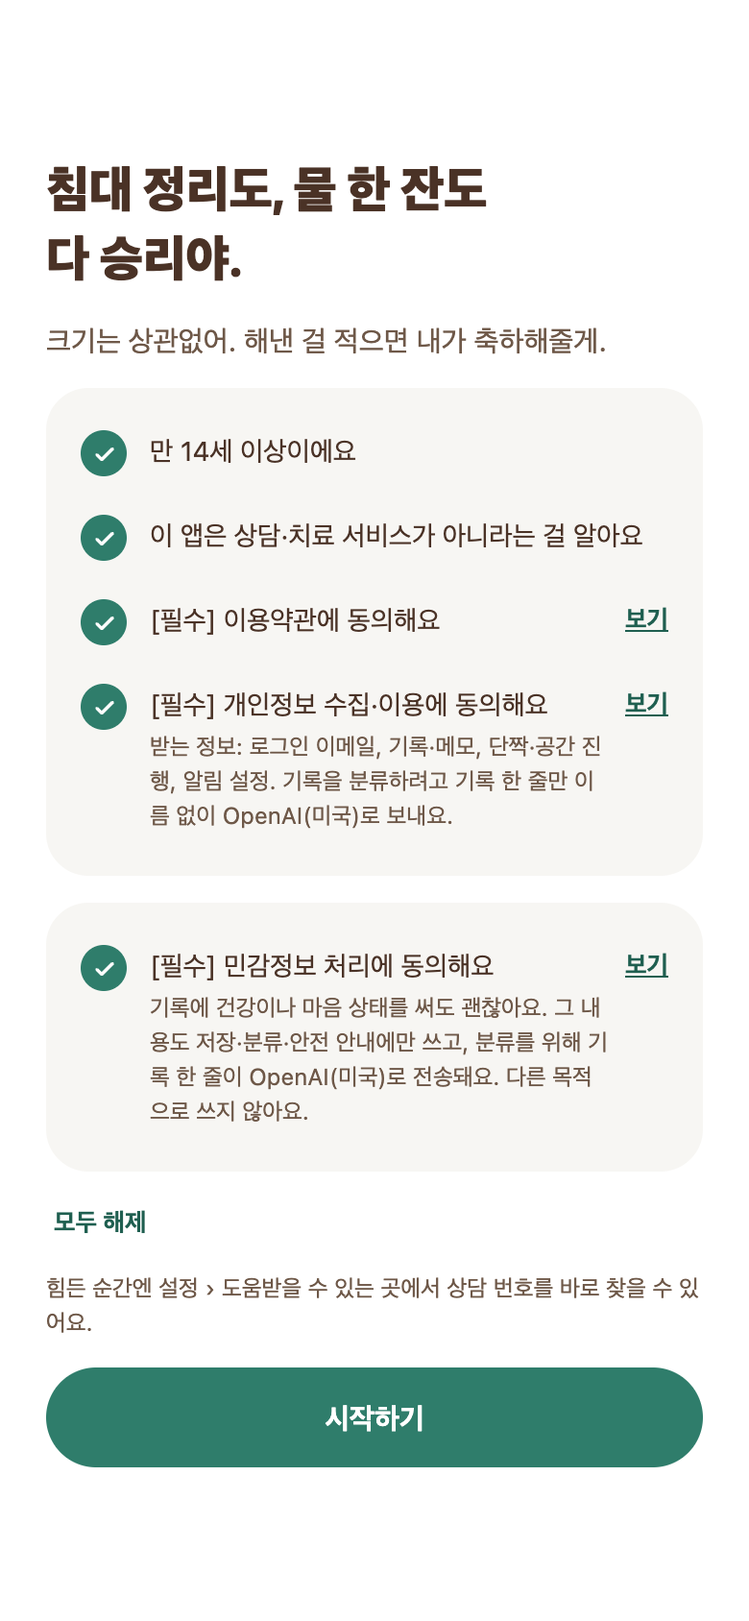
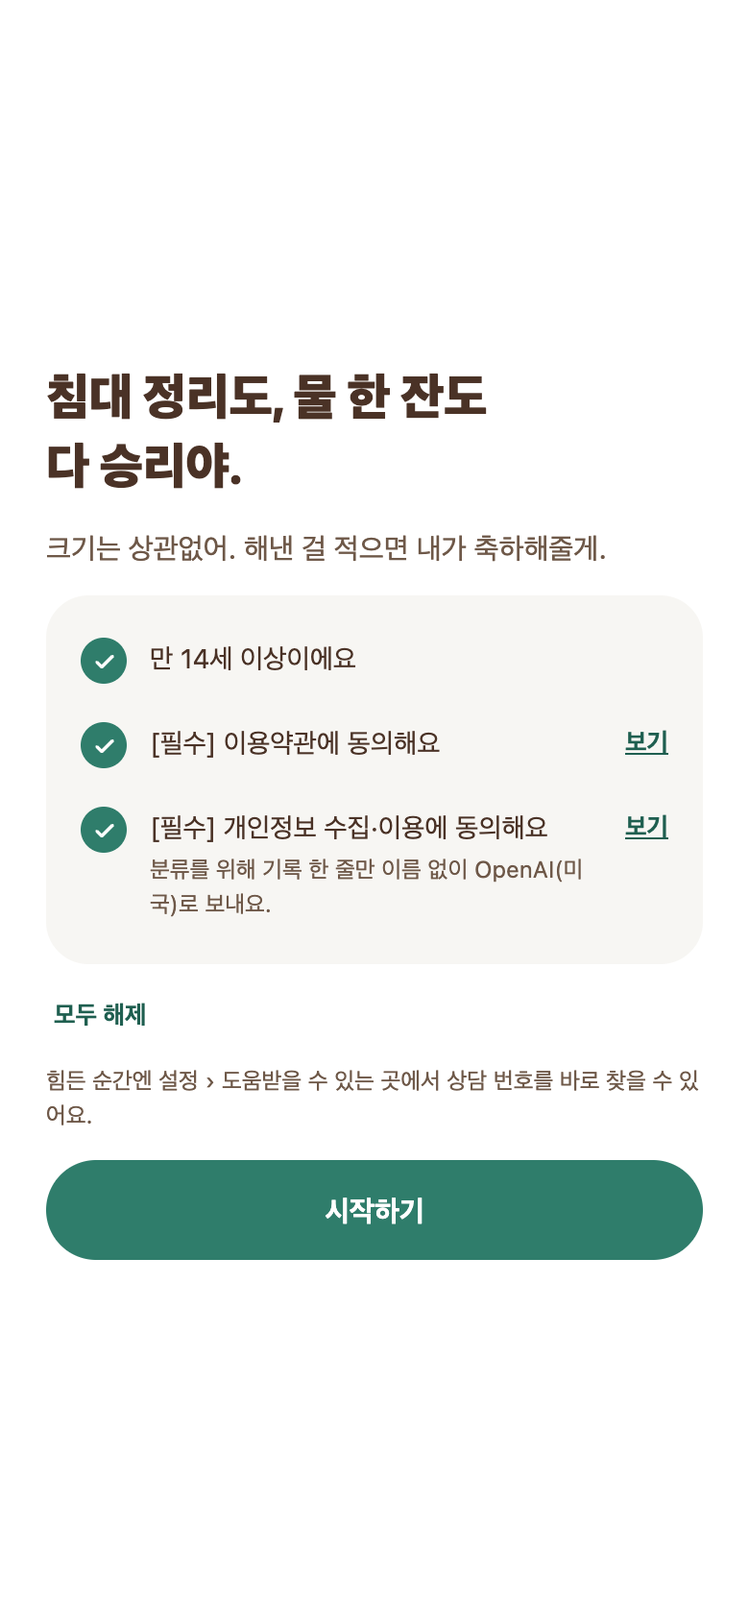
동의 화면: 민감정보 별도 동의(J4)·'상담 앱 아님' 체크 삭제 (대표 결정 2026-11-27) — 서버 동의 확인 일반 동의만, 처리방침 한·일 2/3장, LAUNCH 전문가 질문, 첫 실행 캡처

diff --git a/mobile/src/data/legal.ts b/mobile/src/data/legal.ts
@@ -1,3 +1,3 @@
 // 자동 생성: scripts/gen_legal.py (docs/legal/*.md) — 직접 고치지 말고 문서를 고친 뒤 다시 생성
 export type LegalBlock = ['h1' | 'h2' | 'p' | 'li', string];
-export const LEGAL: Record<'privacy' | 'terms', LegalBlock[]> = {"privacy": [["h1", "개인정보처리방침 (초안)"], ["p", "【앱 이름】(이하 \"앱\")을 운영하는 Irum(이하 \"운영자\")은 개인정보 보호법에 따라 이용자의 개인정보를 보호하고, 관련 문의를 빠르게 처리하기 위해 다음과 같이 개인정보처리방침을 둡니다."], ["p", "이 방침은 한국 App Store 또는 한국 Google Play에서 앱을 받은 이용자에게 적용됩니다."], ["p", "이 앱의 기록은 일기에 가깝습니다. 그래서 꼭 필요한 정보만 받고, 기록은 본인만 볼 수 있게 하며, 운영자는 원칙적으로 기록 내용을 열람하지 않습니다(예외는 8장)."], ["h2", "1. 처리하는 개인정보 항목, 목적, 근거"], ["li", "구분: 가입·로그인 / 항목: 이메일 주소, 로그인 방식(카카오·Google·Apple·이메일)과 해당 서비스의 계정 식별값, 이름 또는 닉네임(카카오·Google이 넘겨주는 경우), 만 14세 이상 확인 / 목적: 본인 확인, 계정 유지, 로그인 코드 발송 / 처리 근거: 계약 이행 (법 제15조 제1항 제4호)"], ["li", "구분: 서비스 이용 / 항목: 기록 내용(한 줄, 최대 100자), 기록에 덧붙인 메모(최대 200자), 기록 날짜·분류, ☆ 표시, 단짝 이름, 알림 설정(켜짐 여부·시간), 씨앗을 받고 쓴 내역, 소품·텃밭·마당 진행 상태, 동의한 시각과 동의한 약관 판, 마지막 접속 시각, 단짝에게 바라는 동작으로 직접 적어 보낸 짧은 낱말(최대 20자, 기록 문장은 보내지 않음) / 목적: 기록 저장·보기, 단짝·공간 기능 제공, 새 동작 고르기 / 처리 근거: 계약 이행 (법 제15조 제1항 제4호)"], ["li", "구분: 민감정보 / 항목: 이용자가 기록·메모에 직접 쓴 건강·마음 상태에 관한 내용, '버틴 하루' 분류 / 목적: 기록 저장·보기, 분류(기록 한 줄은 OpenAI(미국)로 전송, 3장), 힘든 마음에 맞춘 반응 / 처리 근거: 별도 동의 (법 제23조 제1항 제1호, 2장)"], ["li", "구분: 이용 통계 / 항목: 이용 이벤트 이름과 작은 부가 정보(예: 분류 종류, 개수). 계정과 연결해 저장하며, 기록·메모 내용은 포함하지 않음. 가입하지 않은 임시 계정을 삭제할 때는 계정과의 연결을 끊고(누구 것인지 알 수 없는 무작위 값으로 바꿈) 통계로만 남김 / 목적: 기능 개선, 이용 현황 파악 / 처리 근거: 운영자의 정당한 이익 (법 제15조 제1항 제6호)"], ["li", "구분: 남용 방지 / 항목: 하루 AI 분류 호출 횟수(7일 뒤 삭제). 가입 전 임시 계정은 IP 주소를 해시로 바꾼 값과 그 값의 하루 분류 호출 횟수(3일 안에 삭제, IP 주소 자체는 저장하지 않음) / 목적: AI 비용 악용 방지(임시 계정을 계속 새로 만들어 분류 한도를 피하는 일 막기) / 처리 근거: 운영자의 정당한 이익 (법 제15조 제1항 제6호)"], ["li", "구분: 자동 생성 / 항목: 접속 일시, IP 주소, 기기·앱 정보(서버 접속 기록) / 목적: 보안, 오류 확인 / 처리 근거: 운영자의 정당한 이익 (법 제15조 제1항 제6호)"], ["li", "구분: 결제·무료 이용 / 항목: 가입 시각, 무료 이용이 끝나는 날(가입 시각으로 계산), 구독 상품·기간·상태, 거래 식별값 / 목적: 구독 제공·확인. 카드 번호 등 결제 수단 정보는 Apple 또는 Google이 처리하며 운영자는 받지 않습니다 / 처리 근거: 계약 이행 (법 제15조 제1항 제4호)"], ["li", "가입 전 임시 계정: [시작하기]를 누르면 이메일 등 아무 정보 없이 임시 계정이 만들어지고, 이름 짓기·동의·첫 기록은 이 계정에 저장됩니다(위 '서비스 이용'·'민감정보'·'이용 통계' 항목과 같음). 가입하면 같은 계정이 정식 계정이 되고, 이미 가입한 계정으로 로그인하면 임시 계정의 기록을 그 계정으로 옮긴 뒤 임시 계정을 삭제합니다. 가입하지 않은 임시 계정은 만든 지 7일이 지나면 자동으로 삭제합니다(4장)."], ["li", "서비스를 종료하면서 남은 구독 기간을 스토어로 환급할 수 없을 때(약관 제10조)에만 환급 받을 계좌 정보(은행, 계좌번호, 예금주)를 받으며, 환급을 마치면 지체 없이 파기합니다(대금 지급 기록은 4장의 법정 보관 대상)."], ["li", "카카오·Google이 넘겨주는 프로필 사진 주소는 받는 즉시 버리며 저장하지 않습니다."], ["li", "만 14세 미만의 개인정보는 수집하지 않습니다. 만 14세 미만은 이용(가입 전 임시 이용 포함)할 수 없습니다."], ["li", "알림은 휴대폰 안에서만 예약되며, 알림을 위해 서버로 보내는 정보는 없습니다."], ["h2", "2. 민감정보"], ["li", "앱은 건강이나 마음 상태를 묻지 않습니다. 다만 기록은 자유롭게 쓰는 글이라 그런 내용이 들어갈 수 있고, 앱은 그런 기록을 '버틴 하루'로 분류하고, 힘든 마음이 보이면 단짝이 축하 대신 조용히 곁에 있습니다."], ["li", "그래서 앱을 시작할 때(가입 전, 첫 기록을 쓰기 전) 동의 화면에서 다른 동의와 나누어 \"기록에 건강·마음 상태 같은 내용을 쓰면, 그 내용도 저장·분류·힘든 마음에 맞춘 반응에 쓰이고, 분류를 위해 기록 한 줄이 AI 서비스(OpenAI, 미국)로 전송되는 것\"에 따로 동의를 받습니다."], ["li", "이 동의는 기록 기능을 제공하는 데 꼭 필요해서, 동의하지 않으면 앱을 쓸 수 없습니다. 동의를 철회하려면 계정을 삭제하면 되고, 그때 관련 정보도 함께 삭제됩니다."], ["li", "민감정보는 다른 기록과 같은 방법(8장)으로 보호하며, 다른 목적으로 쓰지 않습니다."], ["h2", "3. 기록 분류와 힘든 마음에 맞춘 반응"], ["li", "기록을 저장할 때 기록 내용(한 줄)만 AI 서비스(OpenAI, 미국)로 보내 분류(정리·운동·공부 등), 자해·자살과 관련된 표현인지, 남을 해치는 표현인지를 판단합니다. 이름·이메일·계정 식별값은 함께 보내지 않습니다. 메모는 AI로 보내지 않습니다."], ["li", "보낸 내용은 AI 학습에 쓰이지 않으며, OpenAI는 악용 감시 목적으로 최대 30일 보관할 수 있습니다."], ["li", "자해·자살과 관련된 표현이 감지되면 단짝이 축하하지 않고 조용히 곁에 있습니다. 감지 여부를 따로 표시해 남기지 않고 날짜별 횟수만 익명으로 집계합니다. 다만 그 기록은 '버틴 하루'로 분류되어 다른 기록처럼 저장됩니다."], ["li", "남을 해치는 표현으로 판단되면 단짝이 축하하지 않고 조용히 곁에 있습니다. 이 판단 결과는 기록의 분류나 이용 통계 어디에도 남기지 않으며, 씨앗 등 이용에 불이익을 주지 않습니다."], ["li", "AI 분류는 서비스 제공에 필요한 처리라서 끌 수 없습니다. AI 서버에 연결되지 않을 때는 휴대폰 안의 단어 목록으로만 판단합니다."], ["li", "분류 결과는 단짝의 동작과 구슬 색을 고르는 데만 쓰이며, 이용자의 권리·의무에 영향을 주는 자동화된 결정(법 제37조의2)에 해당하지 않습니다. 분류는 이용자가 직접 바꿀 수 있습니다."], ["li", "운영자는 기록 내용을 보고 이용자에게 따로 연락하지 않습니다. 이 앱은 상담·치료 서비스가 아닙니다."], ["h2", "4. 보유 기간과 파기"], ["li", "개인정보는 계정을 삭제할 때까지 보유합니다."], ["li", "가입하지 않은 임시 계정은 만든 지 7일이 지나면 그 계정의 정보(이름, 동의 시각, 기록, 씨앗 내역)를 모두 자동으로 삭제합니다. 이용 통계는 계정과의 연결을 끊어 누구 것인지 알 수 없게 바꾼 뒤 통계로만 남깁니다."], ["li", "마지막 접속 후 【3년】 동안 접속하지 않으면, 30일 전에 이메일로 알린 뒤 계정과 정보를 삭제합니다. 그 전에 한 번이라도 접속하면 계속 보관합니다. 구독이 유지되고 있는 계정은 삭제하지 않습니다."], ["li", "계정 삭제, 기록 1개 삭제, 모든 기록 지우기를 하면 서비스 데이터베이스에서 지체 없이(늦어도 5일 안에) 삭제합니다. 다만 아래는 각 기간이 지나야 사라집니다."], ["li", "OpenAI에 보낸 기록 내용: 최대 30일 (OpenAI의 악용 감시 보관)"], ["li", "RevenueCat에 있는 구독·구매 정보(앱 회원 번호, 구매 내역, 영수증·구매 토큰 등): 계정을 삭제해도 지워지지 않고, RevenueCat과의 위탁 계약이 끝날 때 함께 삭제됩니다 (5장 표)"], ["li", "서버 접속 기록: 【1일 (현재) / Pro 전환 후 7일】"], ["li", "백업 사본: 【현재 자동 백업 없음 / Pro 전환 후 7일】"], ["li", "법령이 보관을 요구하는 정보는 다른 정보와 분리해 그 기간만 보관하고, 그 목적으로만 씁니다(법 제21조 제3항)."], ["li", "계약·청약철회, 대금 결제에 관한 기록: 5년 (전자상거래법). 계정을 삭제하면 구독 기록(상품, 기간, 상태, 거래 식별값)은 계정과의 연결을 끊어 분리 보관하고, 5년이 지나면 자동으로 파기합니다."], ["li", "소비자 불만·분쟁 처리 기록: 3년 (전자상거래법)"], ["li", "파기 절차: 보유 기간이 끝나거나 목적을 이룬 정보는 지체 없이(5일 안에) 파기합니다. 분리 보관하는 정보는 위 기간이 지나면 파기합니다."], ["li", "파기 방법: 전자 파일은 복구할 수 없는 방법으로 삭제합니다. 종이 문서로는 개인정보를 보관하지 않습니다."], ["h2", "5. 제3자 제공"], ["p", "운영자는 이용자의 개인정보를 제3자에게 제공하지 않습니다. 다만 법령에 따라 수사기관 등이 적법한 절차로 요구하는 경우는 예외이며, 이때도 요구된 최소 범위만 제공합니다."], ["h2", "6. 처리 위탁과 국외 이전"], ["p", "서비스 운영을 위해 아래 업체에 개인정보 처리를 맡기며, 이 과정에서 개인정보가 국외로 이전됩니다."], ["li", "이전받는 자 (연락처): Supabase, Inc. (privacy@supabase.com) / 이전 국가: 일본(도쿄 데이터센터: 데이터베이스·로그인·백업), 미국 등 지원팀 소재국(지원 요청·보안 사고 대응 때 필요한 범위만 접근), EU(서비스 운영 로그) / 이전 항목: 1번 표의 모든 항목 (운영 로그는 접속 기록) / 목적: 데이터베이스·로그인 시스템 운영 / 이전 시기·방법: 이용할 때마다 암호화 통신으로 전송 / 보유 기간: 계정 삭제 시까지 (로그·백업은 4장 기간)"], ["li", "이전받는 자 (연락처): OpenAI OpCo, LLC (privacy@openai.com) / 이전 국가: 미국 / 이전 항목: 기록 내용 한 줄 (계정 식별값 없음) / 목적: 기록 분류, 자해·자살 관련 표현·남을 해치는 표현 판단 / 이전 시기·방법: 기록 저장 시 암호화 통신으로 전송 / 보유 기간: 최대 30일"], ["li", "이전받는 자 (연락처): RevenueCat, Inc. (compliance@revenuecat.com) / 이전 국가: 미국 / 이전 항목: 계정 식별값(앱 회원 번호), 구독 상품·구매 내역·상태, 거래 식별값(Apple 영수증·Google 구매 토큰), 기기 종류·운영체제, 지역·통화 설정, 마지막 접속 시각 / 목적: 구독 결제 확인·구매 복원, 구독 상태 관리 / 이전 시기·방법: 구매·갱신·복원·앱 실행 시 암호화 통신으로 전송 / 보유 기간: 위탁 계약이 끝날 때까지 (계정을 삭제해도 남으며, 계약이 끝나면 운영자 요청으로 삭제. 업체 백업본은 업체 보관 관행에 따라 그 뒤 삭제)"], ["li", "이전받는 자 (연락처): 【Resend 등 메일 발송 업체 — 연동 후 기재】 / 이전 국가: 미국 / 이전 항목: 이메일 주소 / 목적: 로그인 코드 메일 발송 / 이전 시기·방법: 코드 요청 시 암호화 통신으로 전송 / 보유 기간: 【업체 보관 기간 확인】"], ["li", "재위탁: Supabase는 Amazon Web Services, Inc.(일본 도쿄 리전)의 서버를 씁니다. 그 밖의 재수탁자는 각 업체가 공개한 목록을 따릅니다."], ["li", "위 국외 이전은 이용자와의 계약(서비스 제공)을 이행하는 데 필요한 처리위탁·보관으로, 법 제28조의8 제1항 제3호에 따라 이 방침에 공개하는 방법으로 알립니다."], ["li", "국외 이전을 원하지 않으면 계정을 삭제하는 방법으로 거부할 수 있습니다. 다만 국외 이전 없이는 서비스를 제공할 수 없어, 거부하면 앱을 쓸 수 없습니다."], ["li", "카카오·Google·Apple 로그인은 이용자가 선택한 경우에만 해당 회사를 통해 본인 확인이 이루어집니다."], ["li", "구독 결제는 Apple 또는 Google이 자체 방침에 따라 처리하며, 운영자는 구독 상태와 거래 식별값만 받습니다."], ["h2", "7. 이용자의 권리와 행사 방법"], ["li", "열람: 앱에서 모든 기록과 메모를 볼 수 있고, 설정 › 텍스트로 내보내기로 받을 수 있습니다."], ["li", "정정: 앱에서 기록·메모·분류와 단짝 이름을 고칠 수 있습니다."], ["li", "삭제·동의 철회: 설정에서 기록 삭제, 모든 기록 지우기, 계정 삭제를 할 수 있습니다."], ["li", "그 밖의 열람·정정·삭제·처리정지 요구는 아래 문의처로 보내 주시면, 가입한 계정의 이메일로 본인임을 확인한 뒤 10일 안에 답합니다."], ["li", "대리인을 통해 권리를 행사할 수 있으며, 이 경우 위임장을 확인합니다."], ["h2", "8. 안전성 확보 조치"], ["li", "접근 통제: 모든 데이터는 본인 계정으로만 읽을 수 있도록 데이터베이스 단계에서 제한합니다."], ["li", "암호화: 통신 구간(HTTPS)과 저장 데이터(디스크)를 암호화하고, 휴대폰 안의 로그인 정보도 암호화해 보관합니다."], ["li", "비밀번호 미보관: 로그인에 비밀번호를 쓰지 않습니다."], ["li", "최소 권한과 열람 제한: 운영에 필요한 관리 열쇠는 운영자만 보관합니다. 운영자는 원칙적으로 기록 내용을 열람하지 않으며, 이용자 본인이 요청한 경우, 법령상 의무가 있는 경우, 장애·보안 사고 대응에 꼭 필요한 경우에만 최소 범위로 열람하고 그 사실을 기록합니다. Supabase 지원팀은 운영자의 지원 요청, 문제 신고, 보안 사고 대응 때 필요한 범위에서만 접근합니다【Supabase DPA 확인: 접근 기록 보관 여부】."], ["li", "유출 대응: 개인정보가 유출되었거나 유출 가능성이 확인되면 72시간 안에 이용자에게 알리고, 법령이 정한 경우 개인정보보호위원회 또는 한국인터넷진흥원에 신고합니다."], ["h2", "9. 자동 수집 장치(쿠키 등)"], ["p", "앱은 쿠키를 쓰지 않으며, 광고 식별자를 수집하지 않고 광고·추적 도구를 넣지 않았습니다."], ["h2", "10. 개인정보 보호책임자와 문의처"], ["li", "개인정보 보호책임자: 【이름·직책】"], ["li", "문의: contact@irumhq.com"], ["h2", "11. 권익 침해 구제 방법"], ["li", "개인정보침해신고센터: privacy.kisa.or.kr, 국번 없이 118"], ["li", "개인정보분쟁조정위원회: www.kopico.go.kr, 1833-6972"], ["li", "대검찰청 사이버수사과: 국번 없이 1301"], ["li", "경찰청 사이버수사국: ecrm.police.go.kr, 국번 없이 182"], ["h2", "12. 방침의 변경"], ["p", "이 방침을 바꿀 때는 시행 7일 전(이용자에게 불리한 변경은 30일 전)에 앱 또는 이 페이지에 알립니다. 불리한 변경은 이메일로도 따로 알립니다."], ["li", "시행일: 【출시일】"]], "terms": [["h1", "이용약관 (초안)"], ["h2", "제1조 (목적)"], ["p", "이 약관은 Irum(이하 \"운영자\")이 제공하는 【앱 이름】(이하 \"서비스\")의 이용 조건과 운영자·이용자의 권리와 의무를 정합니다. 이 약관은 한국 App Store 또는 한국 Google Play에서 앱을 받은 이용자에게 적용됩니다."], ["h2", "제2조 (서비스의 내용)"], ["p", "1. 서비스는 이용자가 오늘 해낸 작은 일을 한 줄로 기록하고, 단짝 캐릭터와 방·텃밭·마당을 가꾸는 기록 앱입니다."], ["p", "2. 서비스는 상담·진단·치료를 제공하는 의료 또는 심리 상담 서비스가 아닙니다. 마음이 많이 힘들 때는 앱 안의 \"도움받을 수 있는 곳\"에 있는 전문 기관에 연락해 주세요."], ["p", "3. 운영자는 기록 내용을 보고 이용자에게 따로 연락하지 않습니다."], ["h2", "제3조 (약관의 효력과 변경)"], ["p", "1. 이 약관은 앱을 시작할 때(가입 전) 동의 화면에서 확인하고 동의한 때부터 효력이 있으며, 앱 안 설정 화면과 【약관 페이지 주소】에 게시합니다."], ["p", "2. 운영자는 법령을 어기지 않는 범위에서 약관을 바꿀 수 있고, 바꿀 때는 바뀌는 내용과 시행일을 시행 7일 전(이용자에게 불리한 변경은 30일 전)에 앱에 알립니다. 불리한 변경은 이메일로도 따로 알립니다."], ["p", "3. 알릴 때 \"시행일까지 거부 의사를 밝히지 않으면 동의한 것으로 본다\"는 점을 함께 알립니다. 그런데도 시행일까지 거부 의사를 밝히지 않고 계속 이용하면 바뀐 약관에 동의한 것으로 봅니다."], ["p", "4. 이용자는 바뀐 약관에 동의하지 않으면 계정을 삭제하고 이용을 그만둘 수 있습니다."], ["h2", "제4조 (가입과 계정)"], ["p", "1. 만 14세 이상만 가입할 수 있습니다."], ["p", "2. 만 19세 미만인 이용자가 법정대리인(부모 등)의 동의 없이 유료 구독을 결제하면, 본인 또는 법정대리인이 그 결제를 취소할 수 있습니다. 다만 나이를 속이거나 법정대리인의 동의가 있는 것처럼 속인 경우에는 취소할 수 없습니다."], ["p", "3. 가입은 카카오, Google, Apple 계정 또는 이메일 코드로 합니다."], ["p", "4. 계정은 본인만 써야 하며, 다른 사람에게 넘기거나 빌려줄 수 없습니다."], ["p", "5. 이용자는 설정에서 언제든 계정을 삭제할 수 있습니다. 삭제하면 기록·단짝·공간·씨앗이 모두 삭제되며 되돌릴 수 없습니다. 계정을 삭제해도 App Store·Google Play 구독은 해지되지 않으므로, 결제를 멈추려면 제7조 4항의 방법으로 따로 해지해야 합니다."], ["p", "6. 가입 전에도 이름 짓기와 첫 기록을 할 수 있으며, 이때는 임시 계정이 쓰입니다. 첫 기록 뒤에는 가입해야 계속 이용할 수 있고, 가입하지 않은 임시 계정은 만든 지 7일이 지나면 그 기록과 함께 삭제됩니다."], ["h2", "제5조 (이용자가 쓴 기록)"], ["p", "1. 기록과 메모의 권리는 쓴 이용자에게 있습니다."], ["p", "2. 운영자는 서비스 제공(저장, 보여주기, 분류, 힘든 마음·남을 해치는 표현에 대한 반응 조절, 내보내기)에 필요한 범위에서만 기록을 처리하며, 기록을 공개하거나 광고·AI 학습에 쓰지 않습니다."], ["p", "3. 이용자는 설정에서 기록을 텍스트로 내보낼 수 있습니다. 계정을 삭제하기 전에 필요한 기록은 미리 내보내 주세요."], ["h2", "제6조 (이용자가 하면 안 되는 일)"], ["p", "1. 다른 사람의 계정이나 개인정보를 쓰는 일"], ["p", "2. 서비스를 비정상적인 방법으로 이용하는 일(자동화 도구로 대량 요청, 보안 장치 우회, 씨앗·소품을 부정하게 얻는 일 등)"], ["p", "3. 서비스를 복제·분해하거나 운영을 방해하는 일"], ["p", "4. 법령을 어기는 일"], ["p", "위 행위가 확인되면 운영자는 사유를 알린 뒤 이용을 제한하거나 계정을 정지할 수 있습니다. 급한 경우에는 먼저 조치하고 나중에 사유를 알릴 수 있습니다. 이용자는 contact@irumhq.com로 이의를 낼 수 있고, 운영자는 이의를 받은 날부터 【7일】 안에 검토 결과를 알립니다."], ["h2", "제7조 (유료 구독)"], ["p", "1. 서비스는 가입한 날부터 14일 동안 무료로 이용할 수 있고, 그 뒤에는 월 3,000원 또는 연 24,000원(모두 부가세 포함)의 구독으로 이용할 수 있습니다. 구독하지 않으면 새 기록을 남기는 기능을 쓸 수 없으며, 6항의 기능은 계속 무료입니다."], ["p", "2. 구독은 Apple App Store 또는 Google Play의 인앱 결제로 이루어지며, 결제·갱신·해지는 해당 스토어의 정책을 따릅니다."], ["p", "3. 무료 이용 기간은 결제 수단을 등록하지 않고 제공되며, 끝나도 자동으로 결제되지 않습니다. 운영자는 가입 화면에서 무료 이용이 끝나는 날을 알리며, 이용자는 설정 화면에서 언제든 그 날을 확인할 수 있습니다. 무료 이용은 그날 자정(한국 시간)까지입니다. 구독은 이용자가 직접 결제해야 시작됩니다."], ["p", "4. 구독은 현재 기간이 끝나기 24시간 전까지 해지하지 않으면 같은 조건으로 자동 갱신됩니다. 해지는 iPhone의 설정 › Apple 계정 › 구독, 또는 Google Play 앱의 프로필 › 결제 및 정기 결제 › 정기 결제에서 할 수 있고, 해지하면 다음 결제부터 청구되지 않습니다."], ["p", "5. 가격을 올릴 때는 인상일 전 30일 이내에 바뀌는 금액과 해지 방법을 알리고 동의를 받습니다. 동의하지 않으면 구독은 갱신되지 않습니다."], ["p", "6. 구독이 끝나거나 구독하지 않아도 지난 기록 보기·고치기(메모·분류·☆ 포함)·내보내기·삭제, 단짝과 방·텃밭·마당, 이미 가진 씨앗과 소품, 도움받을 수 있는 곳(상담 기관 안내)은 무료로 계속 쓸 수 있습니다."], ["p", "7. 무료 이용 기간 중에도 구독할 수 있습니다. 이때 구독 기간과 결제는 구독한 날부터 시작되며, 남은 무료 이용 기간은 구독 기간에 더해지지 않습니다. 운영자는 결제 전에 구독 화면에서 이 점을 알립니다."], ["h2", "제8조 (청약철회와 환불)"], ["p", "1. 서비스는 결제 전에 가입 후 14일 무료 이용으로 구독 기능을 미리 써 볼 수 있게 합니다. 결제한 금액과 남은 구독 기간은 원칙적으로 환불되지 않으며, 해지하면 이미 결제한 기간이 끝날 때까지 구독 기능을 쓸 수 있습니다. 다만 전자상거래법 등 관련 법령에 따라 청약철회를 할 수 있는 경우에는 그에 따릅니다."], ["p", "2. 해지하면 다음 결제부터 청구되지 않습니다."], ["p", "3. App Store에서 결제한 구독의 환불은 Apple이 결정하고 처리합니다. 환불은 Apple의 환불 요청 페이지(reportaproblem.apple.com)에서 신청할 수 있습니다."], ["p", "4. Google Play에서 결제한 구독은 결제 후 48시간 안에는 Google Play에 환불을 신청할 수 있습니다. 그 뒤에는 운영자에게 문의하시면, 1항 단서의 청약철회와 6항의 경우에 운영자가 Google Play를 통해 환불합니다."], ["p", "5. 환불·해지 문의는 운영자(contact@irumhq.com)에게도 할 수 있습니다. App Store 결제의 경우 운영자는 Apple 환불 신청 방법을 안내하고, 신청에 필요한 이용 정보를 제공하는 등 지원합니다."], ["p", "6. 운영자의 잘못으로 서비스를 이용하지 못한 경우, 운영자는 이용하지 못한 기간만큼 다음 갱신일을 늦추어 보상합니다. 이용자가 원하면 App Store 결제는 Apple 환불 신청을 지원하고, Google Play 결제는 이용하지 못한 기간만큼 환불합니다."], ["h2", "제9조 (씨앗과 소품)"], ["p", "1. 씨앗은 기록하면 받는 앱 안의 포인트이며, 소품·작물·구역으로 바꾸는 데만 쓸 수 있습니다."], ["p", "2. 씨앗·소품은 현금으로 바꾸거나 다른 사람에게 넘길 수 없고, 돈으로 따로 살 수 없습니다. 【아이템 판매를 도입하면 수정】"], ["p", "3. 계정을 삭제하면 씨앗·소품도 함께 사라집니다."], ["h2", "제10조 (서비스의 변경과 중단)"], ["p", "1. 운영자는 서비스의 내용을 개선하기 위해 바꿀 수 있고, 이용자에게 큰 영향을 주는 변경은 미리 알립니다."], ["p", "2. 점검, 장애, 천재지변 등으로 서비스가 잠시 멈출 수 있습니다."], ["p", "3. 서비스를 끝낼 때는 적어도 30일 전에 알리고, 그 기간 동안 기록을 내보낼 수 있게 합니다. 알린 날부터 새 구독과 자동 갱신을 멈춥니다. 운영자는 이미 결제된 구독 기간이 모두 끝날 때까지 서비스를 운영하거나, 종료일 뒤에 남은 구독 기간만큼 요금을 환급하고 종료합니다. 환급은 App Store·Google Play를 통해 하고, 스토어에서 환급되지 않으면 운영자가 직접 환급합니다."], ["h2", "제11조 (책임)"], ["p", "1. 운영자는 서비스를 안정적으로 제공하기 위해 노력하며, 운영자의 고의 또는 과실로 이용자에게 생긴 손해는 법령에 따라 책임집니다."], ["p", "2. 운영자는 천재지변, 이용자의 기기·통신 문제 등 운영자가 책임질 수 없는 사유로 생긴 손해는 책임지지 않습니다."], ["p", "3. 서비스는 의료·상담 서비스가 아니므로, 서비스의 내용을 전문가의 진단이나 치료 대신으로 삼아서는 안 됩니다."], ["h2", "제12조 (개인정보)"], ["p", "개인정보의 처리는 개인정보처리방침(【처리방침 페이지 주소】)을 따릅니다."], ["h2", "제13조 (준거법과 분쟁 해결)"], ["p", "1. 이 약관은 대한민국 법을 따릅니다."], ["p", "2. 서비스와 관련한 분쟁은 먼저 contact@irumhq.com로 알려 주시면 성실히 협의합니다. 소송은 민사소송법이 정한 관할 법원에 제기합니다."], ["h2", "부칙"], ["li", "시행일: 【출시일】"], ["li", "운영자: 【운영자 이름 / 사업자등록번호 / 통신판매업 신고번호 / 주소 / 연락처 — 사업자등록 후 기재】"]]};
+export const LEGAL: Record<'privacy' | 'terms', LegalBlock[]> = {"privacy": [["h1", "개인정보처리방침 (초안)"], ["p", "【앱 이름】(이하 \"앱\")을 운영하는 Irum(이하 \"운영자\")은 개인정보 보호법에 따라 이용자의 개인정보를 보호하고, 관련 문의를 빠르게 처리하기 위해 다음과 같이 개인정보처리방침을 둡니다."], ["p", "이 방침은 한국 App Store 또는 한국 Google Play에서 앱을 받은 이용자에게 적용됩니다."], ["p", "이 앱의 기록은 일기에 가깝습니다. 그래서 꼭 필요한 정보만 받고, 기록은 본인만 볼 수 있게 하며, 운영자는 원칙적으로 기록 내용을 열람하지 않습니다(예외는 8장)."], ["h2", "1. 처리하는 개인정보 항목, 목적, 근거"], ["li", "구분: 가입·로그인 / 항목: 이메일 주소, 로그인 방식(카카오·Google·Apple·이메일)과 해당 서비스의 계정 식별값, 이름 또는 닉네임(카카오·Google이 넘겨주는 경우), 만 14세 이상 확인 / 목적: 본인 확인, 계정 유지, 로그인 코드 발송 / 처리 근거: 계약 이행 (법 제15조 제1항 제4호)"], ["li", "구분: 서비스 이용 / 항목: 기록 내용(한 줄, 최대 100자), 기록에 덧붙인 메모(최대 200자), 기록 날짜·분류, ☆ 표시, 단짝 이름, 알림 설정(켜짐 여부·시간), 씨앗을 받고 쓴 내역, 소품·텃밭·마당 진행 상태, 동의한 시각과 동의한 약관 판, 마지막 접속 시각, 단짝에게 바라는 동작으로 직접 적어 보낸 짧은 낱말(최대 20자, 기록 문장은 보내지 않음) / 목적: 기록 저장·보기, 단짝·공간 기능 제공, 새 동작 고르기 / 처리 근거: 계약 이행 (법 제15조 제1항 제4호)"], ["li", "구분: 이용 통계 / 항목: 이용 이벤트 이름과 작은 부가 정보(예: 분류 종류, 개수). 계정과 연결해 저장하며, 기록·메모 내용은 포함하지 않음. 가입하지 않은 임시 계정을 삭제할 때는 계정과의 연결을 끊고(누구 것인지 알 수 없는 무작위 값으로 바꿈) 통계로만 남김 / 목적: 기능 개선, 이용 현황 파악 / 처리 근거: 운영자의 정당한 이익 (법 제15조 제1항 제6호)"], ["li", "구분: 남용 방지 / 항목: 하루 AI 분류 호출 횟수(7일 뒤 삭제). 가입 전 임시 계정은 IP 주소를 해시로 바꾼 값과 그 값의 하루 분류 호출 횟수(3일 안에 삭제, IP 주소 자체는 저장하지 않음) / 목적: AI 비용 악용 방지(임시 계정을 계속 새로 만들어 분류 한도를 피하는 일 막기) / 처리 근거: 운영자의 정당한 이익 (법 제15조 제1항 제6호)"], ["li", "구분: 자동 생성 / 항목: 접속 일시, IP 주소, 기기·앱 정보(서버 접속 기록) / 목적: 보안, 오류 확인 / 처리 근거: 운영자의 정당한 이익 (법 제15조 제1항 제6호)"], ["li", "구분: 결제·무료 이용 / 항목: 가입 시각, 무료 이용이 끝나는 날(가입 시각으로 계산), 구독 상품·기간·상태, 거래 식별값 / 목적: 구독 제공·확인. 카드 번호 등 결제 수단 정보는 Apple 또는 Google이 처리하며 운영자는 받지 않습니다 / 처리 근거: 계약 이행 (법 제15조 제1항 제4호)"], ["li", "가입 전 임시 계정: [시작하기]를 누르면 이메일 등 아무 정보 없이 임시 계정이 만들어지고, 이름 짓기·동의·첫 기록은 이 계정에 저장됩니다(위 '서비스 이용'·'이용 통계' 항목과 같음). 가입하면 같은 계정이 정식 계정이 되고, 이미 가입한 계정으로 로그인하면 임시 계정의 기록을 그 계정으로 옮긴 뒤 임시 계정을 삭제합니다. 가입하지 않은 임시 계정은 만든 지 7일이 지나면 자동으로 삭제합니다(4장)."], ["li", "서비스를 종료하면서 남은 구독 기간을 스토어로 환급할 수 없을 때(약관 제10조)에만 환급 받을 계좌 정보(은행, 계좌번호, 예금주)를 받으며, 환급을 마치면 지체 없이 파기합니다(대금 지급 기록은 4장의 법정 보관 대상)."], ["li", "카카오·Google이 넘겨주는 프로필 사진 주소는 받는 즉시 버리며 저장하지 않습니다."], ["li", "만 14세 미만의 개인정보는 수집하지 않습니다. 만 14세 미만은 이용(가입 전 임시 이용 포함)할 수 없습니다."], ["li", "알림은 휴대폰 안에서만 예약되며, 알림을 위해 서버로 보내는 정보는 없습니다."], ["h2", "2. 기록에 쓴 건강·마음 상태"], ["li", "앱은 건강이나 마음 상태를 묻지 않습니다. 다만 기록은 자유롭게 쓰는 글이라 이용자가 그런 내용을 직접 쓸 수 있습니다."], ["li", "그런 기록도 다른 기록과 똑같이 저장·보기와 분류(3장)에만 쓰이고, 분류를 위해 기록 한 줄이 AI 서비스(OpenAI, 미국)로 전송됩니다. 힘든 마음이 보이면 단짝이 축하 대신 조용히 곁에 있습니다(3장)."], ["li", "'버틴 하루'는 힘든 하루를 버틴 것도 해낸 일로 축하하는 분류이며, 진단이나 건강 상태 판단이 아닙니다. 분류는 이용자가 직접 바꿀 수 있습니다."], ["li", "이용자가 쓴 내용 말고 건강·마음 상태를 따로 추측해 저장하지 않으며, 광고나 제3자 제공 등 다른 목적으로 쓰지 않습니다."], ["li", "그런 내용을 쓰지 않아도 앱을 쓰는 데 지장이 없고, 쓴 기록은 언제든 고치거나 지울 수 있습니다."], ["h2", "3. 기록 분류와 힘든 마음에 맞춘 반응"], ["li", "기록을 저장할 때 기록 내용(한 줄)만 AI 서비스(OpenAI, 미국)로 보내 분류(정리·운동·공부 등), 자해·자살과 관련된 표현인지, 남을 해치는 표현인지를 판단합니다. 이름·이메일·계정 식별값은 함께 보내지 않습니다. 메모는 AI로 보내지 않습니다."], ["li", "보낸 내용은 AI 학습에 쓰이지 않으며, OpenAI는 악용 감시 목적으로 최대 30일 보관할 수 있습니다."], ["li", "자해·자살과 관련된 표현이 감지되면 단짝이 축하하지 않고 조용히 곁에 있습니다. 감지 여부를 따로 표시해 남기지 않고 날짜별 횟수만 익명으로 집계합니다. 다만 그 기록은 '버틴 하루'로 분류되어 다른 기록처럼 저장됩니다."], ["li", "남을 해치는 표현으로 판단되면 단짝이 축하하지 않고 조용히 곁에 있습니다. 이 판단 결과는 기록의 분류나 이용 통계 어디에도 남기지 않으며, 씨앗 등 이용에 불이익을 주지 않습니다."], ["li", "AI 분류는 서비스 제공에 필요한 처리라서 끌 수 없습니다. AI 서버에 연결되지 않을 때는 휴대폰 안의 단어 목록으로만 판단합니다."], ["li", "분류 결과는 단짝의 동작과 구슬 색을 고르는 데만 쓰이며, 이용자의 권리·의무에 영향을 주는 자동화된 결정(법 제37조의2)에 해당하지 않습니다. 분류는 이용자가 직접 바꿀 수 있습니다."], ["li", "운영자는 기록 내용을 보고 이용자에게 따로 연락하지 않습니다. 이 앱은 상담·치료 서비스가 아닙니다."], ["h2", "4. 보유 기간과 파기"], ["li", "개인정보는 계정을 삭제할 때까지 보유합니다."], ["li", "가입하지 않은 임시 계정은 만든 지 7일이 지나면 그 계정의 정보(이름, 동의 시각, 기록, 씨앗 내역)를 모두 자동으로 삭제합니다. 이용 통계는 계정과의 연결을 끊어 누구 것인지 알 수 없게 바꾼 뒤 통계로만 남깁니다."], ["li", "마지막 접속 후 【3년】 동안 접속하지 않으면, 30일 전에 이메일로 알린 뒤 계정과 정보를 삭제합니다. 그 전에 한 번이라도 접속하면 계속 보관합니다. 구독이 유지되고 있는 계정은 삭제하지 않습니다."], ["li", "계정 삭제, 기록 1개 삭제, 모든 기록 지우기를 하면 서비스 데이터베이스에서 지체 없이(늦어도 5일 안에) 삭제합니다. 다만 아래는 각 기간이 지나야 사라집니다."], ["li", "OpenAI에 보낸 기록 내용: 최대 30일 (OpenAI의 악용 감시 보관)"], ["li", "RevenueCat에 있는 구독·구매 정보(앱 회원 번호, 구매 내역, 영수증·구매 토큰 등): 계정을 삭제해도 지워지지 않고, RevenueCat과의 위탁 계약이 끝날 때 함께 삭제됩니다 (5장 표)"], ["li", "서버 접속 기록: 【1일 (현재) / Pro 전환 후 7일】"], ["li", "백업 사본: 【현재 자동 백업 없음 / Pro 전환 후 7일】"], ["li", "법령이 보관을 요구하는 정보는 다른 정보와 분리해 그 기간만 보관하고, 그 목적으로만 씁니다(법 제21조 제3항)."], ["li", "계약·청약철회, 대금 결제에 관한 기록: 5년 (전자상거래법). 계정을 삭제하면 구독 기록(상품, 기간, 상태, 거래 식별값)은 계정과의 연결을 끊어 분리 보관하고, 5년이 지나면 자동으로 파기합니다."], ["li", "소비자 불만·분쟁 처리 기록: 3년 (전자상거래법)"], ["li", "파기 절차: 보유 기간이 끝나거나 목적을 이룬 정보는 지체 없이(5일 안에) 파기합니다. 분리 보관하는 정보는 위 기간이 지나면 파기합니다."], ["li", "파기 방법: 전자 파일은 복구할 수 없는 방법으로 삭제합니다. 종이 문서로는 개인정보를 보관하지 않습니다."], ["h2", "5. 제3자 제공"], ["p", "운영자는 이용자의 개인정보를 제3자에게 제공하지 않습니다. 다만 법령에 따라 수사기관 등이 적법한 절차로 요구하는 경우는 예외이며, 이때도 요구된 최소 범위만 제공합니다."], ["h2", "6. 처리 위탁과 국외 이전"], ["p", "서비스 운영을 위해 아래 업체에 개인정보 처리를 맡기며, 이 과정에서 개인정보가 국외로 이전됩니다."], ["li", "이전받는 자 (연락처): Supabase, Inc. (privacy@supabase.com) / 이전 국가: 일본(도쿄 데이터센터: 데이터베이스·로그인·백업), 미국 등 지원팀 소재국(지원 요청·보안 사고 대응 때 필요한 범위만 접근), EU(서비스 운영 로그) / 이전 항목: 1번 표의 모든 항목 (운영 로그는 접속 기록) / 목적: 데이터베이스·로그인 시스템 운영 / 이전 시기·방법: 이용할 때마다 암호화 통신으로 전송 / 보유 기간: 계정 삭제 시까지 (로그·백업은 4장 기간)"], ["li", "이전받는 자 (연락처): OpenAI OpCo, LLC (privacy@openai.com) / 이전 국가: 미국 / 이전 항목: 기록 내용 한 줄 (계정 식별값 없음) / 목적: 기록 분류, 자해·자살 관련 표현·남을 해치는 표현 판단 / 이전 시기·방법: 기록 저장 시 암호화 통신으로 전송 / 보유 기간: 최대 30일"], ["li", "이전받는 자 (연락처): RevenueCat, Inc. (compliance@revenuecat.com) / 이전 국가: 미국 / 이전 항목: 계정 식별값(앱 회원 번호), 구독 상품·구매 내역·상태, 거래 식별값(Apple 영수증·Google 구매 토큰), 기기 종류·운영체제, 지역·통화 설정, 마지막 접속 시각 / 목적: 구독 결제 확인·구매 복원, 구독 상태 관리 / 이전 시기·방법: 구매·갱신·복원·앱 실행 시 암호화 통신으로 전송 / 보유 기간: 위탁 계약이 끝날 때까지 (계정을 삭제해도 남으며, 계약이 끝나면 운영자 요청으로 삭제. 업체 백업본은 업체 보관 관행에 따라 그 뒤 삭제)"], ["li", "이전받는 자 (연락처): 【Resend 등 메일 발송 업체 — 연동 후 기재】 / 이전 국가: 미국 / 이전 항목: 이메일 주소 / 목적: 로그인 코드 메일 발송 / 이전 시기·방법: 코드 요청 시 암호화 통신으로 전송 / 보유 기간: 【업체 보관 기간 확인】"], ["li", "재위탁: Supabase는 Amazon Web Services, Inc.(일본 도쿄 리전)의 서버를 씁니다. 그 밖의 재수탁자는 각 업체가 공개한 목록을 따릅니다."], ["li", "위 국외 이전은 이용자와의 계약(서비스 제공)을 이행하는 데 필요한 처리위탁·보관으로, 법 제28조의8 제1항 제3호에 따라 이 방침에 공개하는 방법으로 알립니다."], ["li", "국외 이전을 원하지 않으면 계정을 삭제하는 방법으로 거부할 수 있습니다. 다만 국외 이전 없이는 서비스를 제공할 수 없어, 거부하면 앱을 쓸 수 없습니다."], ["li", "카카오·Google·Apple 로그인은 이용자가 선택한 경우에만 해당 회사를 통해 본인 확인이 이루어집니다."], ["li", "구독 결제는 Apple 또는 Google이 자체 방침에 따라 처리하며, 운영자는 구독 상태와 거래 식별값만 받습니다."], ["h2", "7. 이용자의 권리와 행사 방법"], ["li", "열람: 앱에서 모든 기록과 메모를 볼 수 있고, 설정 › 텍스트로 내보내기로 받을 수 있습니다."], ["li", "정정: 앱에서 기록·메모·분류와 단짝 이름을 고칠 수 있습니다."], ["li", "삭제·동의 철회: 설정에서 기록 삭제, 모든 기록 지우기, 계정 삭제를 할 수 있습니다."], ["li", "그 밖의 열람·정정·삭제·처리정지 요구는 아래 문의처로 보내 주시면, 가입한 계정의 이메일로 본인임을 확인한 뒤 10일 안에 답합니다."], ["li", "대리인을 통해 권리를 행사할 수 있으며, 이 경우 위임장을 확인합니다."], ["h2", "8. 안전성 확보 조치"], ["li", "접근 통제: 모든 데이터는 본인 계정으로만 읽을 수 있도록 데이터베이스 단계에서 제한합니다."], ["li", "암호화: 통신 구간(HTTPS)과 저장 데이터(디스크)를 암호화하고, 휴대폰 안의 로그인 정보도 암호화해 보관합니다."], ["li", "비밀번호 미보관: 로그인에 비밀번호를 쓰지 않습니다."], ["li", "최소 권한과 열람 제한: 운영에 필요한 관리 열쇠는 운영자만 보관합니다. 운영자는 원칙적으로 기록 내용을 열람하지 않으며, 이용자 본인이 요청한 경우, 법령상 의무가 있는 경우, 장애·보안 사고 대응에 꼭 필요한 경우에만 최소 범위로 열람하고 그 사실을 기록합니다. Supabase 지원팀은 운영자의 지원 요청, 문제 신고, 보안 사고 대응 때 필요한 범위에서만 접근합니다【Supabase DPA 확인: 접근 기록 보관 여부】."], ["li", "유출 대응: 개인정보가 유출되었거나 유출 가능성이 확인되면 72시간 안에 이용자에게 알리고, 법령이 정한 경우 개인정보보호위원회 또는 한국인터넷진흥원에 신고합니다."], ["h2", "9. 자동 수집 장치(쿠키 등)"], ["p", "앱은 쿠키를 쓰지 않으며, 광고 식별자를 수집하지 않고 광고·추적 도구를 넣지 않았습니다."], ["h2", "10. 개인정보 보호책임자와 문의처"], ["li", "개인정보 보호책임자: 【이름·직책】"], ["li", "문의: contact@irumhq.com"], ["h2", "11. 권익 침해 구제 방법"], ["li", "개인정보침해신고센터: privacy.kisa.or.kr, 국번 없이 118"], ["li", "개인정보분쟁조정위원회: www.kopico.go.kr, 1833-6972"], ["li", "대검찰청 사이버수사과: 국번 없이 1301"], ["li", "경찰청 사이버수사국: ecrm.police.go.kr, 국번 없이 182"], ["h2", "12. 방침의 변경"], ["p", "이 방침을 바꿀 때는 시행 7일 전(이용자에게 불리한 변경은 30일 전)에 앱 또는 이 페이지에 알립니다. 불리한 변경은 이메일로도 따로 알립니다."], ["li", "시행일: 【출시일】"]], "terms": [["h1", "이용약관 (초안)"], ["h2", "제1조 (목적)"], ["p", "이 약관은 Irum(이하 \"운영자\")이 제공하는 【앱 이름】(이하 \"서비스\")의 이용 조건과 운영자·이용자의 권리와 의무를 정합니다. 이 약관은 한국 App Store 또는 한국 Google Play에서 앱을 받은 이용자에게 적용됩니다."], ["h2", "제2조 (서비스의 내용)"], ["p", "1. 서비스는 이용자가 오늘 해낸 작은 일을 한 줄로 기록하고, 단짝 캐릭터와 방·텃밭·마당을 가꾸는 기록 앱입니다."], ["p", "2. 서비스는 상담·진단·치료를 제공하는 의료 또는 심리 상담 서비스가 아닙니다. 마음이 많이 힘들 때는 앱 안의 \"도움받을 수 있는 곳\"에 있는 전문 기관에 연락해 주세요."], ["p", "3. 운영자는 기록 내용을 보고 이용자에게 따로 연락하지 않습니다."], ["h2", "제3조 (약관의 효력과 변경)"], ["p", "1. 이 약관은 앱을 시작할 때(가입 전) 동의 화면에서 확인하고 동의한 때부터 효력이 있으며, 앱 안 설정 화면과 【약관 페이지 주소】에 게시합니다."], ["p", "2. 운영자는 법령을 어기지 않는 범위에서 약관을 바꿀 수 있고, 바꿀 때는 바뀌는 내용과 시행일을 시행 7일 전(이용자에게 불리한 변경은 30일 전)에 앱에 알립니다. 불리한 변경은 이메일로도 따로 알립니다."], ["p", "3. 알릴 때 \"시행일까지 거부 의사를 밝히지 않으면 동의한 것으로 본다\"는 점을 함께 알립니다. 그런데도 시행일까지 거부 의사를 밝히지 않고 계속 이용하면 바뀐 약관에 동의한 것으로 봅니다."], ["p", "4. 이용자는 바뀐 약관에 동의하지 않으면 계정을 삭제하고 이용을 그만둘 수 있습니다."], ["h2", "제4조 (가입과 계정)"], ["p", "1. 만 14세 이상만 가입할 수 있습니다."], ["p", "2. 만 19세 미만인 이용자가 법정대리인(부모 등)의 동의 없이 유료 구독을 결제하면, 본인 또는 법정대리인이 그 결제를 취소할 수 있습니다. 다만 나이를 속이거나 법정대리인의 동의가 있는 것처럼 속인 경우에는 취소할 수 없습니다."], ["p", "3. 가입은 카카오, Google, Apple 계정 또는 이메일 코드로 합니다."], ["p", "4. 계정은 본인만 써야 하며, 다른 사람에게 넘기거나 빌려줄 수 없습니다."], ["p", "5. 이용자는 설정에서 언제든 계정을 삭제할 수 있습니다. 삭제하면 기록·단짝·공간·씨앗이 모두 삭제되며 되돌릴 수 없습니다. 계정을 삭제해도 App Store·Google Play 구독은 해지되지 않으므로, 결제를 멈추려면 제7조 4항의 방법으로 따로 해지해야 합니다."], ["p", "6. 가입 전에도 이름 짓기와 첫 기록을 할 수 있으며, 이때는 임시 계정이 쓰입니다. 첫 기록 뒤에는 가입해야 계속 이용할 수 있고, 가입하지 않은 임시 계정은 만든 지 7일이 지나면 그 기록과 함께 삭제됩니다."], ["h2", "제5조 (이용자가 쓴 기록)"], ["p", "1. 기록과 메모의 권리는 쓴 이용자에게 있습니다."], ["p", "2. 운영자는 서비스 제공(저장, 보여주기, 분류, 힘든 마음·남을 해치는 표현에 대한 반응 조절, 내보내기)에 필요한 범위에서만 기록을 처리하며, 기록을 공개하거나 광고·AI 학습에 쓰지 않습니다."], ["p", "3. 이용자는 설정에서 기록을 텍스트로 내보낼 수 있습니다. 계정을 삭제하기 전에 필요한 기록은 미리 내보내 주세요."], ["h2", "제6조 (이용자가 하면 안 되는 일)"], ["p", "1. 다른 사람의 계정이나 개인정보를 쓰는 일"], ["p", "2. 서비스를 비정상적인 방법으로 이용하는 일(자동화 도구로 대량 요청, 보안 장치 우회, 씨앗·소품을 부정하게 얻는 일 등)"], ["p", "3. 서비스를 복제·분해하거나 운영을 방해하는 일"], ["p", "4. 법령을 어기는 일"], ["p", "위 행위가 확인되면 운영자는 사유를 알린 뒤 이용을 제한하거나 계정을 정지할 수 있습니다. 급한 경우에는 먼저 조치하고 나중에 사유를 알릴 수 있습니다. 이용자는 contact@irumhq.com로 이의를 낼 수 있고, 운영자는 이의를 받은 날부터 【7일】 안에 검토 결과를 알립니다."], ["h2", "제7조 (유료 구독)"], ["p", "1. 서비스는 가입한 날부터 14일 동안 무료로 이용할 수 있고, 그 뒤에는 월 3,000원 또는 연 24,000원(모두 부가세 포함)의 구독으로 이용할 수 있습니다. 구독하지 않으면 새 기록을 남기는 기능을 쓸 수 없으며, 6항의 기능은 계속 무료입니다."], ["p", "2. 구독은 Apple App Store 또는 Google Play의 인앱 결제로 이루어지며, 결제·갱신·해지는 해당 스토어의 정책을 따릅니다."], ["p", "3. 무료 이용 기간은 결제 수단을 등록하지 않고 제공되며, 끝나도 자동으로 결제되지 않습니다. 운영자는 가입 화면에서 무료 이용이 끝나는 날을 알리며, 이용자는 설정 화면에서 언제든 그 날을 확인할 수 있습니다. 무료 이용은 그날 자정(한국 시간)까지입니다. 구독은 이용자가 직접 결제해야 시작됩니다."], ["p", "4. 구독은 현재 기간이 끝나기 24시간 전까지 해지하지 않으면 같은 조건으로 자동 갱신됩니다. 해지는 iPhone의 설정 › Apple 계정 › 구독, 또는 Google Play 앱의 프로필 › 결제 및 정기 결제 › 정기 결제에서 할 수 있고, 해지하면 다음 결제부터 청구되지 않습니다."], ["p", "5. 가격을 올릴 때는 인상일 전 30일 이내에 바뀌는 금액과 해지 방법을 알리고 동의를 받습니다. 동의하지 않으면 구독은 갱신되지 않습니다."], ["p", "6. 구독이 끝나거나 구독하지 않아도 지난 기록 보기·고치기(메모·분류·☆ 포함)·내보내기·삭제, 단짝과 방·텃밭·마당, 이미 가진 씨앗과 소품, 도움받을 수 있는 곳(상담 기관 안내)은 무료로 계속 쓸 수 있습니다."], ["p", "7. 무료 이용 기간 중에도 구독할 수 있습니다. 이때 구독 기간과 결제는 구독한 날부터 시작되며, 남은 무료 이용 기간은 구독 기간에 더해지지 않습니다. 운영자는 결제 전에 구독 화면에서 이 점을 알립니다."], ["h2", "제8조 (청약철회와 환불)"], ["p", "1. 서비스는 결제 전에 가입 후 14일 무료 이용으로 구독 기능을 미리 써 볼 수 있게 합니다. 결제한 금액과 남은 구독 기간은 원칙적으로 환불되지 않으며, 해지하면 이미 결제한 기간이 끝날 때까지 구독 기능을 쓸 수 있습니다. 다만 전자상거래법 등 관련 법령에 따라 청약철회를 할 수 있는 경우에는 그에 따릅니다."], ["p", "2. 해지하면 다음 결제부터 청구되지 않습니다."], ["p", "3. App Store에서 결제한 구독의 환불은 Apple이 결정하고 처리합니다. 환불은 Apple의 환불 요청 페이지(reportaproblem.apple.com)에서 신청할 수 있습니다."], ["p", "4. Google Play에서 결제한 구독은 결제 후 48시간 안에는 Google Play에 환불을 신청할 수 있습니다. 그 뒤에는 운영자에게 문의하시면, 1항 단서의 청약철회와 6항의 경우에 운영자가 Google Play를 통해 환불합니다."], ["p", "5. 환불·해지 문의는 운영자(contact@irumhq.com)에게도 할 수 있습니다. App Store 결제의 경우 운영자는 Apple 환불 신청 방법을 안내하고, 신청에 필요한 이용 정보를 제공하는 등 지원합니다."], ["p", "6. 운영자의 잘못으로 서비스를 이용하지 못한 경우, 운영자는 이용하지 못한 기간만큼 다음 갱신일을 늦추어 보상합니다. 이용자가 원하면 App Store 결제는 Apple 환불 신청을 지원하고, Google Play 결제는 이용하지 못한 기간만큼 환불합니다."], ["h2", "제9조 (씨앗과 소품)"], ["p", "1. 씨앗은 기록하면 받는 앱 안의 포인트이며, 소품·작물·구역으로 바꾸는 데만 쓸 수 있습니다."], ["p", "2. 씨앗·소품은 현금으로 바꾸거나 다른 사람에게 넘길 수 없고, 돈으로 따로 살 수 없습니다. 【아이템 판매를 도입하면 수정】"], ["p", "3. 계정을 삭제하면 씨앗·소품도 함께 사라집니다."], ["h2", "제10조 (서비스의 변경과 중단)"], ["p", "1. 운영자는 서비스의 내용을 개선하기 위해 바꿀 수 있고, 이용자에게 큰 영향을 주는 변경은 미리 알립니다."], ["p", "2. 점검, 장애, 천재지변 등으로 서비스가 잠시 멈출 수 있습니다."], ["p", "3. 서비스를 끝낼 때는 적어도 30일 전에 알리고, 그 기간 동안 기록을 내보낼 수 있게 합니다. 알린 날부터 새 구독과 자동 갱신을 멈춥니다. 운영자는 이미 결제된 구독 기간이 모두 끝날 때까지 서비스를 운영하거나, 종료일 뒤에 남은 구독 기간만큼 요금을 환급하고 종료합니다. 환급은 App Store·Google Play를 통해 하고, 스토어에서 환급되지 않으면 운영자가 직접 환급합니다."], ["h2", "제11조 (책임)"], ["p", "1. 운영자는 서비스를 안정적으로 제공하기 위해 노력하며, 운영자의 고의 또는 과실로 이용자에게 생긴 손해는 법령에 따라 책임집니다."], ["p", "2. 운영자는 천재지변, 이용자의 기기·통신 문제 등 운영자가 책임질 수 없는 사유로 생긴 손해는 책임지지 않습니다."], ["p", "3. 서비스는 의료·상담 서비스가 아니므로, 서비스의 내용을 전문가의 진단이나 치료 대신으로 삼아서는 안 됩니다."], ["h2", "제12조 (개인정보)"], ["p", "개인정보의 처리는 개인정보처리방침(【처리방침 페이지 주소】)을 따릅니다."], ["h2", "제13조 (준거법과 분쟁 해결)"], ["p", "1. 이 약관은 대한민국 법을 따릅니다."], ["p", "2. 서비스와 관련한 분쟁은 먼저 contact@irumhq.com로 알려 주시면 성실히 협의합니다. 소송은 민사소송법이 정한 관할 법원에 제기합니다."], ["h2", "부칙"], ["li", "시행일: 【출시일】"], ["li", "운영자: 【운영자 이름 / 사업자등록번호 / 통신판매업 신고번호 / 주소 / 연락처 — 사업자등록 후 기재】"]]};

diff --git a/mobile/src/app/onboarding/notice.tsx b/mobile/src/app/onboarding/notice.tsx
@@ -13,21 +13,16 @@ import { Icon } from '@/ui/Icon';
 import { Btn } from '@/ui/kit';
 import { C, R } from '@/ui/theme';
 
-// 한 줄 안내 + 고지·동의 1화면 (FEATURES 3장, D4)
-// 민감정보는 다른 동의와 나눠 따로 받는다 (J4, 처리방침 2장). 모두 필수.
+// 한 줄 안내 + 고지·동의 1화면 (FEATURES 3장, D4). 모두 필수.
+// 2026-11-27 대표 결정: 민감정보 별도 동의(J4)와 '상담 앱 아님' 체크를 뺌 — 상담 아님 고지는 약관 제2조 2항·제11조 3항과 도움 화면에 있음.
+// 개인정보 줄의 OpenAI 한 줄은 남김: Apple 심사 지침 5.1.2(i)(제3자 AI로 개인 데이터를 보낼 때 앱 안에서 알리고 동의받기).
 type Item = { key: string; label: string; detail?: string; doc?: 'terms' | 'privacy' };
-const ITEMS: Item[] = [
+const ALL: Item[] = [
   { key: 'age', label: '만 14세 이상이에요' },
-  { key: 'notCounsel', label: '이 앱은 상담·치료 서비스가 아니라는 걸 알아요' },
   { key: 'terms', label: '[필수] 이용약관에 동의해요', doc: 'terms' },
   { key: 'privacy', label: '[필수] 개인정보 수집·이용에 동의해요', doc: 'privacy',
-    detail: '받는 정보: 로그인 이메일, 기록·메모, 단짝·공간 진행, 알림 설정. 기록을 분류하려고 기록 한 줄만 이름 없이 OpenAI(미국)로 보내요.' },
+    detail: '분류를 위해 기록 한 줄만 이름 없이 OpenAI(미국)로 보내요.' },
 ];
-const SENSITIVE: Item = {
-  key: 'sensitive', label: '[필수] 민감정보 처리에 동의해요', doc: 'privacy',
-  detail: '기록에 건강이나 마음 상태를 써도 괜찮아요. 그 내용도 저장·분류·힘든 마음에 맞춘 반응에만 쓰고, 분류를 위해 기록 한 줄이 OpenAI(미국)로 전송돼요. 다른 목적으로 쓰지 않아요.',
-};
-const ALL = [...ITEMS, SENSITIVE];
 
 export default function Notice() {
   const { refresh, anonymous } = useApp();
@@ -66,10 +61,7 @@ export default function Notice() {
         <Text style={st.big}>침대 정리도, 물 한 잔도{'\n'}다 승리야.</Text>
         <Text style={st.sub}>크기는 상관없어. 해낸 걸 적으면 내가 축하해줄게.</Text>
         <View style={st.box}>
-          {ITEMS.map((i) => <Check key={i.key} item={i} on={!!ok[i.key]} toggle={() => toggle(i.key)} />)}
-        </View>
-        <View style={st.box}>
-          <Check item={SENSITIVE} on={!!ok.sensitive} toggle={() => toggle('sensitive')} />
+          {ALL.map((i) => <Check key={i.key} item={i} on={!!ok[i.key]} toggle={() => toggle(i.key)} />)}
         </View>
         <Pressable onPress={() => setOk(Object.fromEntries(ALL.map((i) => [i.key, !all])))} style={st.allBtn} accessibilityRole="button">
           <Text style={st.allText}>{all ? '모두 해제' : '모두 동의'}</Text>

diff --git a/mobile/src/lib/api.ts b/mobile/src/lib/api.ts
@@ -32,7 +32,7 @@ export type Profile = {
   consent_version?: string | null; // 동의한 약관·처리방침 판
 };
 // 동의 화면에서 보여 준 약관·처리방침 판. docs/legal을 바꿔 다시 동의받아야 할 때 올림 (서버 give_consent가 저장)
-export const CONSENT_VERSION = '2026-11-21';
+export const CONSENT_VERSION = '2026-11-27';
 // 기록 권한 (서버 has_access: 테스터 · 무료 끝 전 · 유효한 구독)
 export type AccessState = { access: boolean; tester: boolean; trial_ends_at: string | null; sub_expires_at: string | null; sub_status: string | null };
 export type Item = {

diff --git a/docs/legal/privacy.md b/docs/legal/privacy.md
@@ -17,6 +17,7 @@
 > - 적용 범위에 한국 Google Play 추가, 결제 정보 처리자에 Google 추가 (안드로이드 미출시 — 출시 전까지 해당 없음).
 > 2026-11-17 수정 5 (첫 실행 순서 변경, 대표 결정 O1~O7 — 첫 화면 스레드, 대표 지시로 직접 수정. 앱은 2f30352에서 이미 바뀜): 가입 전 임시(익명) 계정 — 1장 항목·표, 2장 동의 시점 "가입할 때" → "앱을 시작할 때(첫 기록 전)", 4장 7일 자동 삭제, 남용 방지에 IP 해시(가입 전 계정의 AI 분류 한도, 약 3일 보관 — `classify_ip_usage`). ⚠ 전문가 확인: 해시한 IP도 개인정보(가명정보)로 보는 것이 안전하다고 보고 그렇게 적음.
 > 2026-11-18 수정 6 (DB 라이프사이클 검토, 대표 결정 B1~B7 — '출시전 개발 2' 개발 스레드, 대표 지시로 직접 수정): 서비스 이용 항목에 '동의한 약관 판', 결제·무료 항목에 '가입 시각'. 가입하지 않은 임시 계정을 7일 뒤 지울 때 이용 통계는 계정과의 연결을 끊고(무작위 값으로 바꿈) 남김(B1). 계정을 삭제해도 구독 결제 기록은 계정과의 연결을 끊고 5년 분리 보관(B2, 4장 법정 보관 문장을 구체화).
+> 2026-11-27 수정 7 (대표 결정 — 앱 화면 스레드, 대표 지시로 직접 수정): **민감정보 별도 동의(J4) 철회.** OpenAI·Anthropic도 사용자가 대화에 쓴 건강 이야기를 일반 '사용자 콘텐츠'로 다루고 따로 동의받지 않음(두 회사 한국 동의서·처리방침 2026-11 확인; 별도 동의는 건강 앱 연동 같은 건강 전용 기능에만). 1장 표의 '민감정보' 줄 삭제, 2장을 "묻지 않음·자유 글에 들어갈 수 있음·일반 기록과 같게 처리·따로 추측해 저장 안 함"으로 다시 씀. ⚠ 전문가 확인 질문: 앱이 '버틴 하루'로 힘든 하루를 분류하고 자해 표현에 다르게 반응하는 것이 제23조 민감정보 처리에 해당하는지(해당하면 별도 동의를 다시 넣고 기존 사용자에게 재동의).
 
 【앱 이름】(이하 "앱")을 운영하는 Irum(이하 "운영자")은 개인정보 보호법에 따라 이용자의 개인정보를 보호하고, 관련 문의를 빠르게 처리하기 위해 다음과 같이 개인정보처리방침을 둡니다.
 
@@ -30,24 +31,24 @@
 |---|---|---|---|
 | 가입·로그인 | 이메일 주소, 로그인 방식(카카오·Google·Apple·이메일)과 해당 서비스의 계정 식별값, 이름 또는 닉네임(카카오·Google이 넘겨주는 경우), 만 14세 이상 확인 | 본인 확인, 계정 유지, 로그인 코드 발송 | 계약 이행 (법 제15조 제1항 제4호) |
 | 서비스 이용 | 기록 내용(한 줄, 최대 100자), 기록에 덧붙인 메모(최대 200자), 기록 날짜·분류, ☆ 표시, 단짝 이름, 알림 설정(켜짐 여부·시간), 씨앗을 받고 쓴 내역, 소품·텃밭·마당 진행 상태, 동의한 시각과 동의한 약관 판, 마지막 접속 시각, 단짝에게 바라는 동작으로 직접 적어 보낸 짧은 낱말(최대 20자, 기록 문장은 보내지 않음) | 기록 저장·보기, 단짝·공간 기능 제공, 새 동작 고르기 | 계약 이행 (법 제15조 제1항 제4호) |
-| 민감정보 | 이용자가 기록·메모에 직접 쓴 건강·마음 상태에 관한 내용, '버틴 하루' 분류 | 기록 저장·보기, 분류(기록 한 줄은 OpenAI(미국)로 전송, 3장), 힘든 마음에 맞춘 반응 | 별도 동의 (법 제23조 제1항 제1호, 2장) |
 | 이용 통계 | 이용 이벤트 이름과 작은 부가 정보(예: 분류 종류, 개수). 계정과 연결해 저장하며, 기록·메모 내용은 포함하지 않음. 가입하지 않은 임시 계정을 삭제할 때는 계정과의 연결을 끊고(누구 것인지 알 수 없는 무작위 값으로 바꿈) 통계로만 남김 | 기능 개선, 이용 현황 파악 | 운영자의 정당한 이익 (법 제15조 제1항 제6호) |
 | 남용 방지 | 하루 AI 분류 호출 횟수(7일 뒤 삭제). 가입 전 임시 계정은 IP 주소를 해시로 바꾼 값과 그 값의 하루 분류 호출 횟수(3일 안에 삭제, IP 주소 자체는 저장하지 않음) | AI 비용 악용 방지(임시 계정을 계속 새로 만들어 분류 한도를 피하는 일 막기) | 운영자의 정당한 이익 (법 제15조 제1항 제6호) |
 | 자동 생성 | 접속 일시, IP 주소, 기기·앱 정보(서버 접속 기록) | 보안, 오류 확인 | 운영자의 정당한 이익 (법 제15조 제1항 제6호) |
 | 결제·무료 이용 | 가입 시각, 무료 이용이 끝나는 날(가입 시각으로 계산), 구독 상품·기간·상태, 거래 식별값 | 구독 제공·확인. 카드 번호 등 결제 수단 정보는 Apple 또는 Google이 처리하며 운영자는 받지 않습니다 | 계약 이행 (법 제15조 제1항 제4호) |
 
-- 가입 전 임시 계정: [시작하기]를 누르면 이메일 등 아무 정보 없이 임시 계정이 만들어지고, 이름 짓기·동의·첫 기록은 이 계정에 저장됩니다(위 '서비스 이용'·'민감정보'·'이용 통계' 항목과 같음). 가입하면 같은 계정이 정식 계정이 되고, 이미 가입한 계정으로 로그인하면 임시 계정의 기록을 그 계정으로 옮긴 뒤 임시 계정을 삭제합니다. 가입하지 않은 임시 계정은 만든 지 7일이 지나면 자동으로 삭제합니다(4장).
+- 가입 전 임시 계정: [시작하기]를 누르면 이메일 등 아무 정보 없이 임시 계정이 만들어지고, 이름 짓기·동의·첫 기록은 이 계정에 저장됩니다(위 '서비스 이용'·'이용 통계' 항목과 같음). 가입하면 같은 계정이 정식 계정이 되고, 이미 가입한 계정으로 로그인하면 임시 계정의 기록을 그 계정으로 옮긴 뒤 임시 계정을 삭제합니다. 가입하지 않은 임시 계정은 만든 지 7일이 지나면 자동으로 삭제합니다(4장).
 - 서비스를 종료하면서 남은 구독 기간을 스토어로 환급할 수 없을 때(약관 제10조)에만 환급 받을 계좌 정보(은행, 계좌번호, 예금주)를 받으며, 환급을 마치면 지체 없이 파기합니다(대금 지급 기록은 4장의 법정 보관 대상).
 - 카카오·Google이 넘겨주는 프로필 사진 주소는 받는 즉시 버리며 저장하지 않습니다.
 - 만 14세 미만의 개인정보는 수집하지 않습니다. 만 14세 미만은 이용(가입 전 임시 이용 포함)할 수 없습니다.
 - 알림은 휴대폰 안에서만 예약되며, 알림을 위해 서버로 보내는 정보는 없습니다.
 
-## 2. 민감정보
+## 2. 기록에 쓴 건강·마음 상태
 
-- 앱은 건강이나 마음 상태를 묻지 않습니다. 다만 기록은 자유롭게 쓰는 글이라 그런 내용이 들어갈 수 있고, 앱은 그런 기록을 '버틴 하루'로 분류하고, 힘든 마음이 보이면 단짝이 축하 대신 조용히 곁에 있습니다.
-- 그래서 앱을 시작할 때(가입 전, 첫 기록을 쓰기 전) 동의 화면에서 다른 동의와 나누어 "기록에 건강·마음 상태 같은 내용을 쓰면, 그 내용도 저장·분류·힘든 마음에 맞춘 반응에 쓰이고, 분류를 위해 기록 한 줄이 AI 서비스(OpenAI, 미국)로 전송되는 것"에 따로 동의를 받습니다.
-- 이 동의는 기록 기능을 제공하는 데 꼭 필요해서, 동의하지 않으면 앱을 쓸 수 없습니다. 동의를 철회하려면 계정을 삭제하면 되고, 그때 관련 정보도 함께 삭제됩니다.
-- 민감정보는 다른 기록과 같은 방법(8장)으로 보호하며, 다른 목적으로 쓰지 않습니다.
+- 앱은 건강이나 마음 상태를 묻지 않습니다. 다만 기록은 자유롭게 쓰는 글이라 이용자가 그런 내용을 직접 쓸 수 있습니다.
+- 그런 기록도 다른 기록과 똑같이 저장·보기와 분류(3장)에만 쓰이고, 분류를 위해 기록 한 줄이 AI 서비스(OpenAI, 미국)로 전송됩니다. 힘든 마음이 보이면 단짝이 축하 대신 조용히 곁에 있습니다(3장).
+- '버틴 하루'는 힘든 하루를 버틴 것도 해낸 일로 축하하는 분류이며, 진단이나 건강 상태 판단이 아닙니다. 분류는 이용자가 직접 바꿀 수 있습니다.
+- 이용자가 쓴 내용 말고 건강·마음 상태를 따로 추측해 저장하지 않으며, 광고나 제3자 제공 등 다른 목적으로 쓰지 않습니다.
+- 그런 내용을 쓰지 않아도 앱을 쓰는 데 지장이 없고, 쓴 기록은 언제든 고치거나 지울 수 있습니다.
 
 ## 3. 기록 분류와 힘든 마음에 맞춘 반응
 

diff --git a/docs/LAUNCH.md b/docs/LAUNCH.md
@@ -28,15 +28,15 @@
 - [ ] 초안의 【 】 채우기: 앱 이름, 운영자 이름, 문의 이메일, 보호책임자, 백업 보관 기간, 출시일, 사업자 정보, 메일 발송 업체
 - [ ] 구독 조항(약관 제7~8조) 확정 — 결제 연동 때 구독으로 열리는 기능 범위와 함께
   - (2026-11-16) 범위 확정 = 구독 없으면 새 기록만 잠김, 14일 무료. 문장 수정안 MONETIZATION 2장 → terms.md 반영 + gen_legal.py ✅ 2026-11-16 반영(한국·일본 약관, 처리방침 결제 항목에 '무료 이용이 끝나는 날', 앱 내장 legal.ts 재생성). 전문가 확인: 카드 없는 14일 무료가 청약철회 제한(17조 2항 5호) 근거로 인정되는지
-- [ ] 전문가 검토 (변호사 또는 개인정보 포털 처리방침 작성지침 대조) — 특히 자해 표현 감지가 민감정보 처리에 해당하는지, 국외 이전 고지 방식
+- [ ] 전문가 검토 (변호사 또는 개인정보 포털 처리방침 작성지침 대조) — 특히 자해 표현 감지가 민감정보 처리에 해당하는지, 국외 이전 고지 방식, **민감정보 별도 동의 없이 운영해도 되는지(2026-11-27 J4 철회: 자유 글 + '버틴 하루' 분류 + 자해 표현에 다른 반응. OpenAI·Anthropic은 채팅 내용에 별도 동의 없음)**
 - [ ] 두 문서를 웹 페이지로 공개 (도메인 필요)
 - [ ] 앱에 주소 연결: `EXPO_PUBLIC_PRIVACY_URL / TERMS_URL / CONTACT_EMAIL` — 비어 있으면 설정 화면에서 "준비 중이야"로 나옴
 - [ ] 로그인 화면(`auth/index.tsx`)과 온보딩 동의 화면(`onboarding/notice.tsx`)에 약관·처리방침 링크 넣기 — 지금은 글자만 있고 눌러 볼 수 없음
 - [ ] 온보딩 동의 문구에 수집 항목 요약과 전송 대상(OpenAI, 미국) 명시
-- [x] (2026-11-13 대표 결정 J4) 동의 화면에 **민감정보 별도 필수 동의** 항목 추가 — 다른 동의와 나눠서, 안심시키는 문구(예: "마음 상태를 써도 안전하게 다뤄요"). 처리방침 2장
+- [x] ~~(2026-11-13 대표 결정 J4) 동의 화면에 **민감정보 별도 필수 동의** 항목 추가~~ → **2026-11-27 대표 결정으로 철회**(동의 화면에서 민감정보·'상담 앱 아님' 체크 삭제, 처리방침 2장 다시 씀, 서버 동의 확인도 일반 동의만). 원래 내용: — 다른 동의와 나눠서, 안심시키는 문구(예: "마음 상태를 써도 안전하게 다뤄요"). 처리방침 2장
 - [x] (2026-11-13 대표 결정 J2) `RoomPage.tsx`의 `track('safety_shown')` 삭제 + `app_events`에 이미 쌓인 `safety_shown` 행 삭제. 익명 `safety_daily`만 남김 — 이게 돼야 처리방침 3장이 사실이 됨
 - [ ] (2026-11-14 Fable 재반박) 자해 감지 흔적 정리: `RoomPage.tsx` 139-140행에서 감지 시 출처가 `auto`로 저장돼 표시처럼 남음 → 감지돼도 출처는 평소 값으로 저장. 150행 `win_recorded` 이벤트에서 분류가 `endure`면 분류 값 빼기 + 기존 행 정리 마이그레이션. L2(`harm_others`)도 같은 원칙 — 분류·출처·이벤트 어디에도 판정 흔적 남기지 않기
-- [x] (2026-11-14) 동의 화면 민감정보 문구에 "기록 한 줄이 OpenAI(미국)로 전송" 포함
+- [x] (2026-11-14) 동의 화면 민감정보 문구에 "기록 한 줄이 OpenAI(미국)로 전송" 포함 → 2026-11-27부터 개인정보 줄 한 줄로 옮김(Apple 5.1.2(i) 제3자 AI 고지)
 - [x] (2026-11-14) 3년 미접속 삭제 작업을 만들 때 구독 중인 계정은 제외 → 2026-11-21 구현(안내 후 30일, 구독 중 제외). ⏳ 안내 메일 발송은 남음
 - [x] (2026-11-13 대표 결정 L2) 남을 해치는 표현 대응: classify 응답에 `harm_others` 추가 → 축하 대신 '곁에 앉기', 상담 번호 안 띄움, 판정 저장 안 함, 씨앗 그대로. 평가 세트 필요(기준선 2026-11-13 1회: 남 해치는 글 20개 중 축하 8·자해 오판 9·조용한 반응 3, 함정 10개 오탐 0). 자해 오판 9개도 같이 줄여야 함
 - [ ] 처리방침 【 】: 서버 접속 기록·백업 보관 기간 = 실제 Supabase 요금제 값(무료 로그 1일·백업 없음 / Pro 7일)
@@ -91,7 +91,7 @@
 - [x] Fable 검토 반영 + 결정 J1~J4·L4·접속 기록 = 전부 추천안 (2026-11-13): 일본 16세+생년, Supabase 위탁·28조 동의 대상(미국 지원팀·EU 로그 포함), 민감정보 별도 동의, 배상 상한 12개월/【○○円】, 환불 = 운영자 접수 + Apple 신청 지원
 - [ ] 일본 전문가 검토 (APPI 28조 동의 문구, 要配慮個人情報, 소비자계약법 책임 조항)
 - [x] 가입 하한 나이: 일본 16세 이상 + 생년 입력 (2026-11-13 대표 결정 J1). 18세 미만 결제는 보호자 동의
-- [ ] 일본판 동의 화면: 약관 동의 + 28조 동의("OpenAI·Supabase(米国)"와 미국 제도 안내 링크) + 要配慮個人情報 별도 동의 + 생년 입력
+- [ ] 일본판 동의 화면: 약관 동의 + 28조 동의("OpenAI·Supabase(米国)"와 미국 제도 안내 링크) + 생년 입력 (要配慮個人情報 별도 동의는 2026-11-27 철회)
 - [ ] OpenAI·Supabase DPA 체결 확인 (처리방침 6장 근거)
 - [x] 배상 상한 최소 금액 1만 엔 (2026-11-13 대표 결정, 일본 전문가 검토 때 적정성 확인)
 - [ ] 特定商取引法に基づく表記 페이지 (운영자 이름·주소·연락처·가격·해지 방법) — 구독 시작 전

diff --git a/docs/legal/ja/privacy.md b/docs/legal/ja/privacy.md
@@ -14,6 +14,7 @@
 > - 2026-11-18 수정 (대표 결정 R1 = A + 사업자 정보, 한국판과 같은 내용): 6장 표·移転先の国에 RevenueCat, Inc.(미국). 운영자 = Irum, 문의 = contact@irumhq.com. 所在地·代表者는 빈칸 그대로. ⚠ RevenueCat 추가로 일본 28조 동의 화면의 移転先 목록에도 RevenueCat 포함 필요(일본판 동의 화면 만들 때).
 > - 2026-11-18 수정 (대표 결정 P-R1 = B, 한국판과 같음): RevenueCat 정보는 계정 삭제 후에도 남고 위탁 계약 종료 때 삭제 — 6장 표·7장 예외 목록.
 > - ⚠ 4장 판정 관련 문장은 J2 + `win_recorded` 정리 + L2 구현이 앱에 반영된 뒤에만 사실이 됨.
+> 2026-11-27 수정 (대표 결정, 한국판 수정 7과 같음): **要配慮個人情報 별도 동의(J4) 철회.** 3장을 "묻지 않음·본인이 자유 글에 쓸 수 있음·일반 기록과 같게 처리"로 다시 씀. 근거: 個人情報保護委員会 ガイドライン(通則編) — 本人から直接取得する場合は、本人が提供したことをもって同意があったものと解される. ⚠ 일본 전문가 확인 항목(LAUNCH 8장).
 
 【アプリ名】（以下「本アプリ」）を運営するIrum（以下「運営者」）は、利用者の個人情報を次のとおり取り扱います。
 
@@ -46,9 +47,11 @@
 
 ## 3. 要配慮個人情報について
 
-- 本アプリは、病歴や心身の状態などをおたずねしません。ただし、記録は自由に書く文章のため、そのような内容が含まれることがあります。また、本アプリはそのような記録を「がんばって過ごした日」に分類し、つらい気持ちが見られるときは相棒がお祝いをせずに静かにそばにいます。
-- そのため、利用開始時の同意画面で、ほかの同意とは分けて「記録に心身の状態などを書いた場合、その内容も保存・分類・つらい気持ちに合わせた反応に使われ、分類のために記録の内容が AI サービス（OpenAI、米国）に送られること」への同意をいただきます。
-- この同意は記録の機能を提供するために必要なため、同意いただけない場合は本アプリをご利用いただけません。同意を撤回する場合はアカウントを削除してください。関連する情報も削除されます。
+- 本アプリは、病歴や心身の状態などをおたずねしません。ただし、記録は自由に書く文章のため、ご本人がそのような内容を書くことがあります。
+- その場合も、ほかの記録と同じく保存・表示・分類（4.）にだけ使い、分類のために記録の内容が AI サービス（OpenAI、米国）に送られます。つらい気持ちが見られるときは、相棒がお祝いをせずに静かにそばにいます。
+- 「がんばって過ごした日」は大変な日を乗り切ったこともお祝いする分類で、診断や健康状態の判定ではありません。分類はご自身で変更できます。
+- ご本人が書いた内容のほかに心身の状態を推測して保存したり、広告や第三者への提供などほかの目的に使ったりすることはありません。
+- そのような内容を書かなくても本アプリをご利用いただけます。記録はいつでも修正・削除できます。
 
 ## 4. 記録の分類（AI の利用）
 

diff --git a/docs/STATUS.md b/docs/STATUS.md
@@ -1,6 +1,7 @@
 # CSW (Celebrate Small Wins) — STATUS
 
 ## 현재 상태 (2026-11-21)
+- 2026-11-27 (앱 화면 스레드, 대표 결정 → 법·개발·해외 출시): **민감정보 별도 동의(J4)와 '상담 앱 아님' 체크 삭제** — ChatGPT·Claude처럼 기록 속 건강·마음 내용은 일반 기록으로 다룸. 동의 화면 체크 3개(14세·약관·개인정보 + OpenAI(미국) 한 줄 — Apple 5.1.2(i) 때문에 남김), 서버 `give_consent`·`has_consent`는 일반 동의만(마이그레이션 20261127000001, 운영 DB 적용), `CONSENT_VERSION` 2026-11-27, 처리방침 한·일 2장/3장 다시 씀 + legal.ts 재생성, LAUNCH 전문가 질문 추가, 일본판 동의 화면에서도 要配慮 별도 동의 뺌. 상담 아님 고지는 약관 제2조·제11조와 도움 화면에 남음. 웹 테스트판·첫 실행 캡처·화면 보드 갱신. ⚠ 다른 스레드: `20261123000001_pet_name_hamong.sql`이 운영 DB에 적용 안 돼 있음(새 계정 기본 이름이 아직 '꼬마하마', test_backend 1 FAIL) — 캐릭터/개발 스레드 확인 필요
 - 2026-11-21 네이티브 로그인 빌드: 키 반영 후 개발 빌드 iOS(5ae773d1)·Android(9803eb29) 성공. iOS 시뮬레이터에서 카카오 → kauth/accounts.kakao.com 로그인 화면, 구글 → accounts.google.com "continue to csw" 확인(supabase.co 안 보임), 취소 시 오류 없이 돌아옴. 실제 계정 로그인 완료·안드로이드 실기기는 미확인(대표 계정 필요). 리다이렉트 목록 정리는 폰 로그인 확인 뒤
 - 2026-11-21 K6 카카오·구글 네이티브 로그인 코드 완료(`2ad4900`, 키 없으면 예전 브라우저 로그인). 남은 것: 대표가 카카오·구글 콘솔 설정 후 공개 키 2개(카카오 네이티브 앱 키, 구글 iOS 클라이언트 ID) 전달 → 내가 Supabase·EAS 반영, 새 개발 빌드, 시뮬레이터 확인, 리다이렉트 목록 정리. 콘솔 단계는 DEV.md '카카오·구글 네이티브 로그인'. K5(대표 폰 빌드)는 보류
 - 2026-11-21 EAS 개발 빌드 첫 성공: iOS 시뮬레이터용(설치·Metro 연결·첫 화면 확인) + Android APK(https://expo.dev/accounts/hippoprin/projects/csw/builds/2c1ac7a8-47f5-49c7-ba03-6bc0776be97d). 개발 빌드는 Metro(이 맥)에 붙어야 화면이 뜸 → 대표 폰 테스트용은 JS가 들어간 preview 빌드가 맞음. 빌드 방법 DEV.md 'EAS 개발 빌드'. 다음: 카카오 SDK·구글 네이티브 로그인 교체, 리다이렉트 목록 정리

diff --git a/docs/FEATURES.md b/docs/FEATURES.md
@@ -119,7 +119,7 @@ Supabase 테이블 초안: `profiles`(pet_name, notify_time, created_at) · `win
 ### 첫 실행 (목표: 60초 안에 첫 축하) — 2026-11-17 순서 변경 (대표 결정 O1~O6, 시안 design/onboarding/)
 1. 스플래시 → 펫이 인사: "안녕! 오늘 해낸 걸 알려줘. 아주 작은 것도 좋아." 버튼 [시작하기] / [이미 계정이 있어요]. 시작하기 = 보이지 않는 익명 계정
 2. 이름 짓기 1화면 (기본 이름 제시, 건너뛰기 가능)
-3. 한 줄 안내: "침대 정리도, 물 한 잔도 다 승리야. 크기는 상관없어." + "14세 이상 이용 / 상담 서비스가 아님 / 개인정보 처리" 고지·동의 1화면 (D4). 기록이 AI 분류로 넘어가므로 첫 기록보다 반드시 앞
+3. 한 줄 안내: "침대 정리도, 물 한 잔도 다 승리야. 크기는 상관없어." + "14세 이상 이용 / 약관 / 개인정보 처리" 고지·동의 1화면 (D4). (2026-11-27 대표 결정, 대표 지시로 직접 수정: '상담 서비스가 아님' 체크·민감정보 별도 동의 삭제 — 상담 아님은 약관·도움 화면에 남음) 기록이 AI 분류로 넘어가므로 첫 기록보다 반드시 앞
 4. 첫 기록 화면(홈 무대, 탭·씨앗 칩 숨김, 예시 칩)
 
 ### 첫 기록
